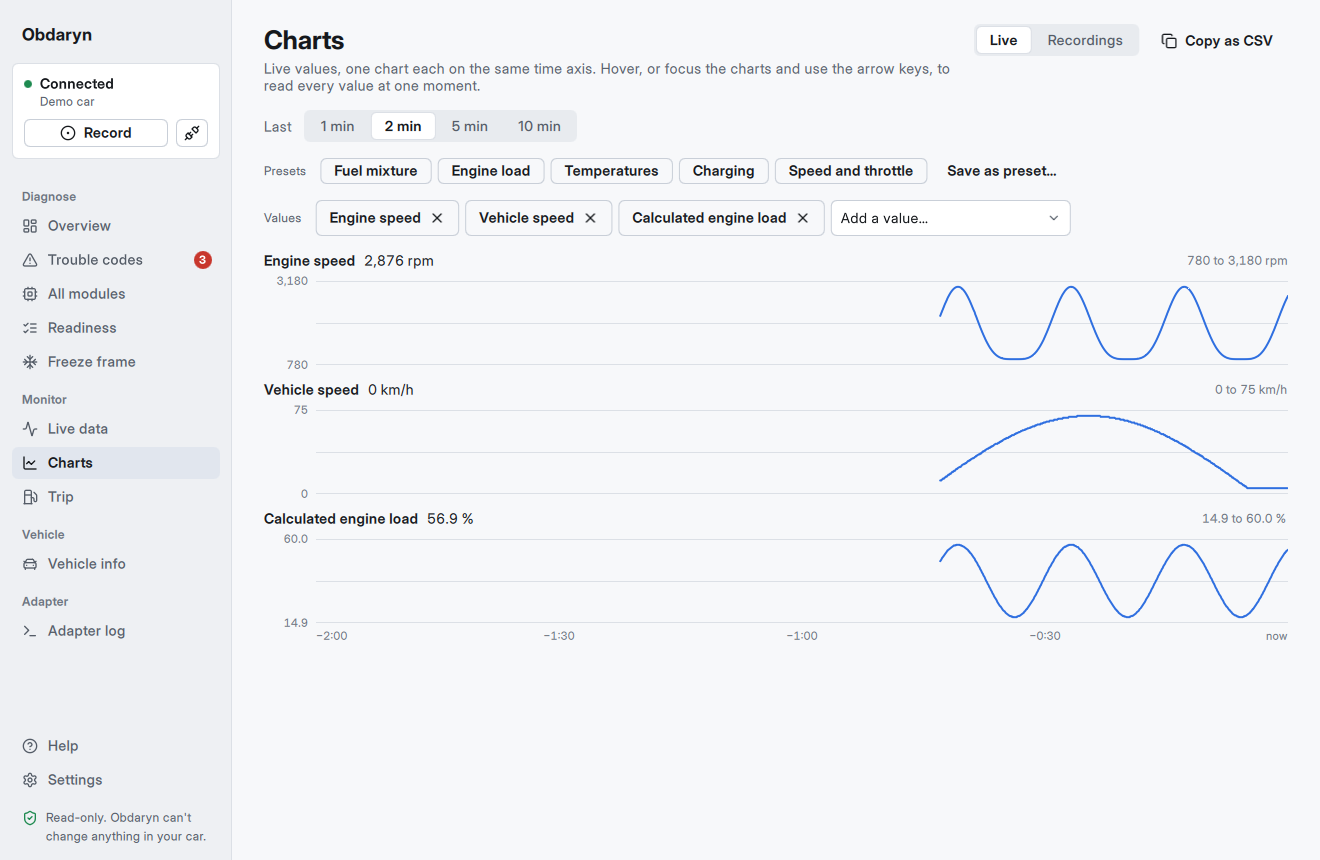
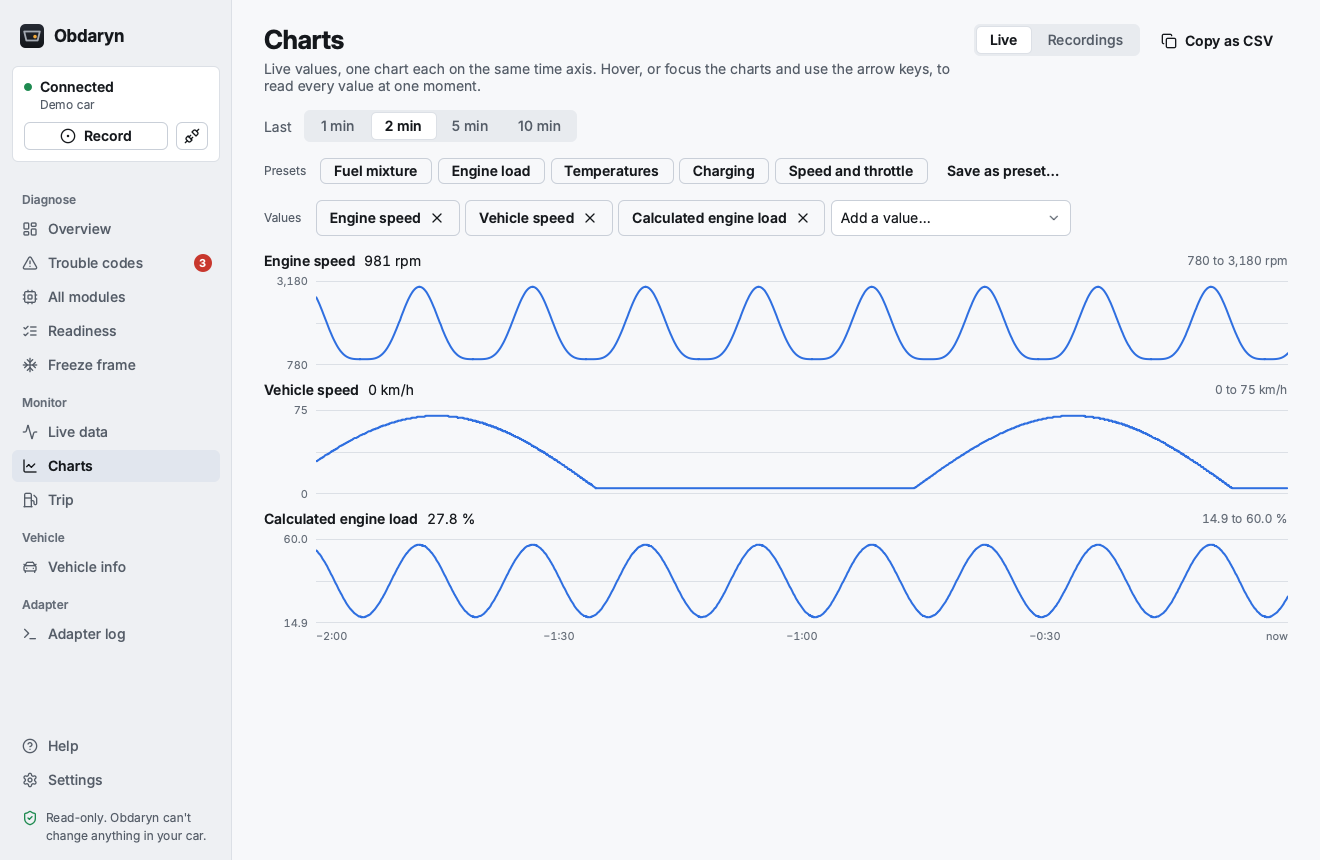
README screenshots from the current app, and a script to redo them
The seven screenshots in docs/images were from 0.4.0. They are recaptured
from the demo car with tools/capture-readme-images.sh, which renders
offscreen at the app's real size, in English, with throwaway settings. It
records two demo drives for the comparison chart and drives two demo trips
for the trip history first.

The demo car's values follow the time since it connected, so two
recordings started the same way are identical and the comparison showed
one line. A capture-only hook, OBDARYN_RECORD_AFTER_MS, starts the second
recording later. The unused overview-light.png is removed.

diff --git a/src/app/main.cpp b/src/app/main.cpp
@@ -79,7 +79,8 @@ int main(int argc, char *argv[])
     // Renders one screen to a PNG and quits; used for design reviews and docs.
     //   OBDARYN_CAPTURE=out.png  OBDARYN_PAGE=0..10  OBDARYN_DEMO=1
     //   OBDARYN_APPEARANCE=light|dark  OBDARYN_LANG=en|ro  OBDARYN_DELAY_MS=4000  OBDARYN_SIZE=WxH
-    //   OBDARYN_SCAN_MODULES=1  OBDARYN_RECORD=1 (record once the first scan ends)
+    //   OBDARYN_SCAN_MODULES=1  OBDARYN_RECORD=1 (record once the first scan ends;
+    //   OBDARYN_RECORD_AFTER_MS=5000 waits that long first, so two demo recordings differ)
     //   OBDARYN_REPLAY=file.obdrec (replay instead of the demo car)
     //   OBDARYN_DEMO_TRIPS=1 (save the demo car's trips, to capture the trip history)
     //   OBDARYN_RECORDINGS_DIR / OBDARYN_REPORTS_DIR=folder (read by AppController; keeps captures out of ~/Documents)
@@ -121,8 +122,12 @@ int main(int argc, char *argv[])
     if (qEnvironmentVariableIntValue("OBDARYN_RECORD") == 1) {
         if (auto *controller = engine.singletonInstance<obdaryn::AppController *>("Obdaryn", "App")) {
             QObject::connect(controller, &obdaryn::AppController::scanFinished, controller, [controller] {
-                if (!controller->vin().isEmpty() && !controller->recording())
-                    controller->startRecording();
+                // The demo car's values follow the time since it connected, so recordings
+                // started at the same moment are identical; a later start shifts them.
+                QTimer::singleShot(qEnvironmentVariableIntValue("OBDARYN_RECORD_AFTER_MS"), controller, [controller] {
+                    if (!controller->vin().isEmpty() && !controller->recording())
+                        controller->startRecording();
+                });
             });
         }
     }

diff --git a/docs/RELEASE.md b/docs/RELEASE.md
@@ -60,6 +60,10 @@ The site at https://obdaryn.eu lives in `site/` (Astro, static, English at `/` a
 - Server settings live in `site/public/.htaccess`: security headers, long caching for the hashed files in `/_astro/`, the 404 page (`site/public/ro/.htaccess` gives `/ro/` its Romanian one), and `ModPagespeed off`, because the server's mod_pagespeed would otherwise rewrite the pages and recompress the screenshots.
 - Social images: `site/public/og-en.png` and `og-ro.png` are captures of the home page's first screen at 1200 × 630, dark theme. Recapture them when the hero changes.
 
+## README screenshots
+
+`tools/capture-readme-images.sh` (after `cmake --build build`) recaptures the screenshots in `docs/images/` from the demo car, offscreen and in English, at the app's real size. It first records two short demo drives (the second starts later, so the comparison chart shows two different lines) and drives two demo trips (so the Trip screen has a history). It takes about ten minutes.
+
 ## Version and icon
 
 - The version comes from `project(Obdaryn VERSION …)` in the top-level `CMakeLists.txt`.
